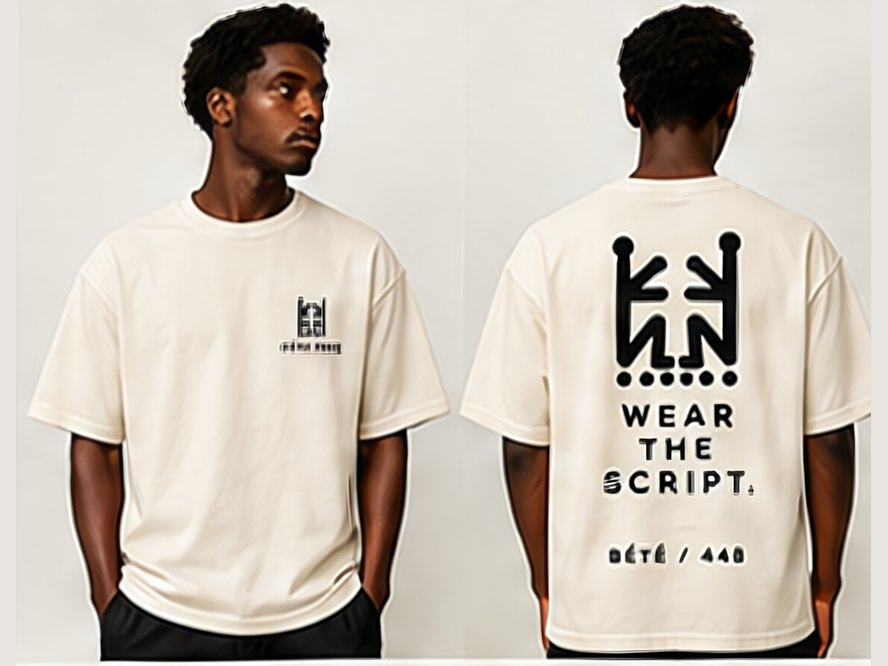
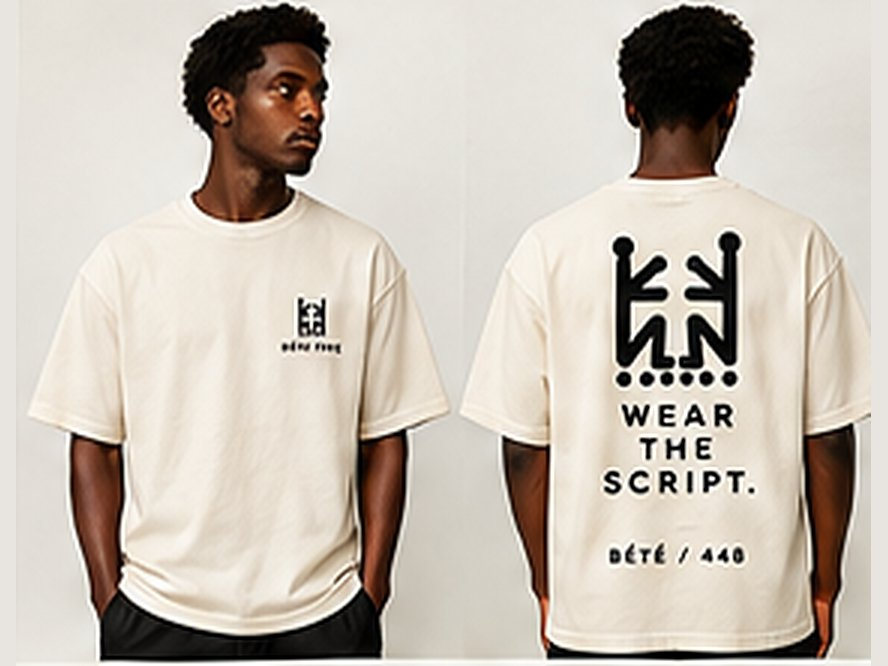
Revert shop brand board and image changes (back to previous version)
Claude-Session: https://claude.ai/code/session_011J1CTqiN78LcnoSLaXQkh7

diff --git a/fr/boutique/index.html b/fr/boutique/index.html
@@ -123,7 +123,6 @@ h3{font-size:14px;font-weight:700;letter-spacing:.1em;text-transform:uppercase;m
 .art .sig span{color:var(--muted);font-size:14.5px}
 .brand{display:flex;gap:22px;align-items:center;background:var(--paper2);border:1px solid var(--line);border-radius:18px;padding:22px 26px;margin:6px 0 26px}.brand img{width:72px;height:72px;flex:none}.brand h3{font-family:"Fraunces",Georgia,serif;font-size:22px;text-transform:none;letter-spacing:0;color:var(--ink);margin:0 0 6px}.brand p{color:var(--muted);font-size:15.5px;max-width:75ch}
 @media (prefers-color-scheme:dark){:root:not([data-theme="light"]) .brand img{filter:invert(1)}}:root[data-theme="dark"] .brand img{filter:invert(1)}
-.brandboard{width:100%;border-radius:18px;display:block;margin:-8px 0 30px;border:1px solid var(--line)}
 .chips{display:flex;gap:10px;flex-wrap:wrap;margin:8px 0 26px}
 .chip{border:1px solid var(--line);background:none;color:var(--ink);border-radius:99px;padding:8px 16px;font:600 14px "Inter";cursor:pointer}
 .chip.on{background:var(--ink);color:var(--paper);border-color:var(--ink)}
@@ -213,8 +212,7 @@ footer .wrap{display:flex;justify-content:space-between;gap:12px;flex-wrap:wrap}
 <main><section class="s shop"><div class="wrap">
   <div class="sh"><h2 style="font-size:clamp(44px,6vw,72px)">Boutique</h2></div>
   <p class="intro-b" style="margin-top:-18px;font-size:19px">T-shirts, affiches et livres issus de mon travail sur les écritures africaines. Commandez en quelques clics sur WhatsApp : je confirme la disponibilité, le prix et la livraison, puis vous payez par Mobile Money ou par carte.</p>
-  <div class="brand"><img src="/img/shop/bhe-glyph.svg" alt="Bhê"><div><h3>Bété Type — Wear the script.</h3><p>Ma marque de T-shirts. Collection 01 — Bhê : six pièces autour du glyphe Bhê du syllabaire bété créé par Frédéric Bruly Bouabré (448 signes). Bhê signifie « choisis ta préférence ». Écrire → Porter → Transmettre.</p></div></div>
-  <img class="brandboard" src="/img/shop/bete-type-identite.jpg" alt="Bété Type — identité de marque" loading="lazy">
+  <div class="brand"><img src="/img/logo.png" alt="Bhê"><div><h3>Bété Type — Wear the script.</h3><p>Ma marque de T-shirts. Collection 01 — Bhê : six pièces autour du glyphe Bhê du syllabaire bété créé par Frédéric Bruly Bouabré (448 signes). Bhê signifie « choisis ta préférence ». Écrire → Porter → Transmettre.</p></div></div>
   <div class="chips"><button class="chip on" data-c="*">Tout</button><button class="chip" data-c="T-shirt">T-shirts Bété Type</button><button class="chip" data-c="Affiche">Affiches</button><button class="chip" data-c="Livre">Livres</button></div>
   <div class="grid-p"><article class="prod" data-c="T-shirt" data-id="bt-bhe-core" data-name="Bhê Core — Bété Type" data-price="0">
   <div class="pimg"><img src="/img/shop/bete-type-bhe-core.jpg" alt="Bhê Core — Bété Type" loading="lazy"></div>

diff --git a/shop/index.html b/shop/index.html
@@ -123,7 +123,6 @@ h3{font-size:14px;font-weight:700;letter-spacing:.1em;text-transform:uppercase;m
 .art .sig span{color:var(--muted);font-size:14.5px}
 .brand{display:flex;gap:22px;align-items:center;background:var(--paper2);border:1px solid var(--line);border-radius:18px;padding:22px 26px;margin:6px 0 26px}.brand img{width:72px;height:72px;flex:none}.brand h3{font-family:"Fraunces",Georgia,serif;font-size:22px;text-transform:none;letter-spacing:0;color:var(--ink);margin:0 0 6px}.brand p{color:var(--muted);font-size:15.5px;max-width:75ch}
 @media (prefers-color-scheme:dark){:root:not([data-theme="light"]) .brand img{filter:invert(1)}}:root[data-theme="dark"] .brand img{filter:invert(1)}
-.brandboard{width:100%;border-radius:18px;display:block;margin:-8px 0 30px;border:1px solid var(--line)}
 .chips{display:flex;gap:10px;flex-wrap:wrap;margin:8px 0 26px}
 .chip{border:1px solid var(--line);background:none;color:var(--ink);border-radius:99px;padding:8px 16px;font:600 14px "Inter";cursor:pointer}
 .chip.on{background:var(--ink);color:var(--paper);border-color:var(--ink)}
@@ -213,8 +212,7 @@ footer .wrap{display:flex;justify-content:space-between;gap:12px;flex-wrap:wrap}
 <main><section class="s shop"><div class="wrap">
   <div class="sh"><h2 style="font-size:clamp(44px,6vw,72px)">Shop</h2></div>
   <p class="intro-b" style="margin-top:-18px;font-size:19px">T-shirts, posters and books from my work on African writing systems. Order in a few clicks on WhatsApp — I confirm availability, price and delivery, then you pay by Mobile Money or card.</p>
-  <div class="brand"><img src="/img/shop/bhe-glyph.svg" alt="Bhê"><div><h3>Bété Type — Wear the script.</h3><p>My T-shirt brand. Collection 01 — Bhê: six pieces built around the Bhê glyph of the Bété syllabary created by Frédéric Bruly Bouabré (448 signs). Bhê means “choose your preference”. Write → Wear → Pass on.</p></div></div>
-  <img class="brandboard" src="/img/shop/bete-type-identite.jpg" alt="Bété Type — identité de marque" loading="lazy">
+  <div class="brand"><img src="/img/logo.png" alt="Bhê"><div><h3>Bété Type — Wear the script.</h3><p>My T-shirt brand. Collection 01 — Bhê: six pieces built around the Bhê glyph of the Bété syllabary created by Frédéric Bruly Bouabré (448 signs). Bhê means “choose your preference”. Write → Wear → Pass on.</p></div></div>
   <div class="chips"><button class="chip on" data-c="*">All</button><button class="chip" data-c="T-shirt">T-shirts Bété Type</button><button class="chip" data-c="Poster">Posters</button><button class="chip" data-c="Book">Books</button></div>
   <div class="grid-p"><article class="prod" data-c="T-shirt" data-id="bt-bhe-core" data-name="Bhê Core — Bété Type" data-price="0">
   <div class="pimg"><img src="/img/shop/bete-type-bhe-core.jpg" alt="Bhê Core — Bété Type" loading="lazy"></div>

diff --git a/blog/a-script-you-cannot-type/index.html b/blog/a-script-you-cannot-type/index.html
@@ -123,7 +123,6 @@ h3{font-size:14px;font-weight:700;letter-spacing:.1em;text-transform:uppercase;m
 .art .sig span{color:var(--muted);font-size:14.5px}
 .brand{display:flex;gap:22px;align-items:center;background:var(--paper2);border:1px solid var(--line);border-radius:18px;padding:22px 26px;margin:6px 0 26px}.brand img{width:72px;height:72px;flex:none}.brand h3{font-family:"Fraunces",Georgia,serif;font-size:22px;text-transform:none;letter-spacing:0;color:var(--ink);margin:0 0 6px}.brand p{color:var(--muted);font-size:15.5px;max-width:75ch}
 @media (prefers-color-scheme:dark){:root:not([data-theme="light"]) .brand img{filter:invert(1)}}:root[data-theme="dark"] .brand img{filter:invert(1)}
-.brandboard{width:100%;border-radius:18px;display:block;margin:-8px 0 30px;border:1px solid var(--line)}
 .chips{display:flex;gap:10px;flex-wrap:wrap;margin:8px 0 26px}
 .chip{border:1px solid var(--line);background:none;color:var(--ink);border-radius:99px;padding:8px 16px;font:600 14px "Inter";cursor:pointer}
 .chip.on{background:var(--ink);color:var(--paper);border-color:var(--ink)}

diff --git a/fr/blog/une-ecriture-qu-on-ne-peut-pas-taper/index.html b/fr/blog/une-ecriture-qu-on-ne-peut-pas-taper/index.html
@@ -123,7 +123,6 @@ h3{font-size:14px;font-weight:700;letter-spacing:.1em;text-transform:uppercase;m
 .art .sig span{color:var(--muted);font-size:14.5px}
 .brand{display:flex;gap:22px;align-items:center;background:var(--paper2);border:1px solid var(--line);border-radius:18px;padding:22px 26px;margin:6px 0 26px}.brand img{width:72px;height:72px;flex:none}.brand h3{font-family:"Fraunces",Georgia,serif;font-size:22px;text-transform:none;letter-spacing:0;color:var(--ink);margin:0 0 6px}.brand p{color:var(--muted);font-size:15.5px;max-width:75ch}
 @media (prefers-color-scheme:dark){:root:not([data-theme="light"]) .brand img{filter:invert(1)}}:root[data-theme="dark"] .brand img{filter:invert(1)}
-.brandboard{width:100%;border-radius:18px;display:block;margin:-8px 0 30px;border:1px solid var(--line)}
 .chips{display:flex;gap:10px;flex-wrap:wrap;margin:8px 0 26px}
 .chip{border:1px solid var(--line);background:none;color:var(--ink);border-radius:99px;padding:8px 16px;font:600 14px "Inter";cursor:pointer}
 .chip.on{background:var(--ink);color:var(--paper);border-color:var(--ink)}

diff --git a/fr/index.html b/fr/index.html
@@ -123,7 +123,6 @@ h3{font-size:14px;font-weight:700;letter-spacing:.1em;text-transform:uppercase;m
 .art .sig span{color:var(--muted);font-size:14.5px}
 .brand{display:flex;gap:22px;align-items:center;background:var(--paper2);border:1px solid var(--line);border-radius:18px;padding:22px 26px;margin:6px 0 26px}.brand img{width:72px;height:72px;flex:none}.brand h3{font-family:"Fraunces",Georgia,serif;font-size:22px;text-transform:none;letter-spacing:0;color:var(--ink);margin:0 0 6px}.brand p{color:var(--muted);font-size:15.5px;max-width:75ch}
 @media (prefers-color-scheme:dark){:root:not([data-theme="light"]) .brand img{filter:invert(1)}}:root[data-theme="dark"] .brand img{filter:invert(1)}
-.brandboard{width:100%;border-radius:18px;display:block;margin:-8px 0 30px;border:1px solid var(--line)}
 .chips{display:flex;gap:10px;flex-wrap:wrap;margin:8px 0 26px}
 .chip{border:1px solid var(--line);background:none;color:var(--ink);border-radius:99px;padding:8px 16px;font:600 14px "Inter";cursor:pointer}
 .chip.on{background:var(--ink);color:var(--paper);border-color:var(--ink)}

diff --git a/index.html b/index.html
@@ -123,7 +123,6 @@ h3{font-size:14px;font-weight:700;letter-spacing:.1em;text-transform:uppercase;m
 .art .sig span{color:var(--muted);font-size:14.5px}
 .brand{display:flex;gap:22px;align-items:center;background:var(--paper2);border:1px solid var(--line);border-radius:18px;padding:22px 26px;margin:6px 0 26px}.brand img{width:72px;height:72px;flex:none}.brand h3{font-family:"Fraunces",Georgia,serif;font-size:22px;text-transform:none;letter-spacing:0;color:var(--ink);margin:0 0 6px}.brand p{color:var(--muted);font-size:15.5px;max-width:75ch}
 @media (prefers-color-scheme:dark){:root:not([data-theme="light"]) .brand img{filter:invert(1)}}:root[data-theme="dark"] .brand img{filter:invert(1)}
-.brandboard{width:100%;border-radius:18px;display:block;margin:-8px 0 30px;border:1px solid var(--line)}
 .chips{display:flex;gap:10px;flex-wrap:wrap;margin:8px 0 26px}
 .chip{border:1px solid var(--line);background:none;color:var(--ink);border-radius:99px;padding:8px 16px;font:600 14px "Inter";cursor:pointer}
 .chip.on{background:var(--ink);color:var(--paper);border-color:var(--ink)}
